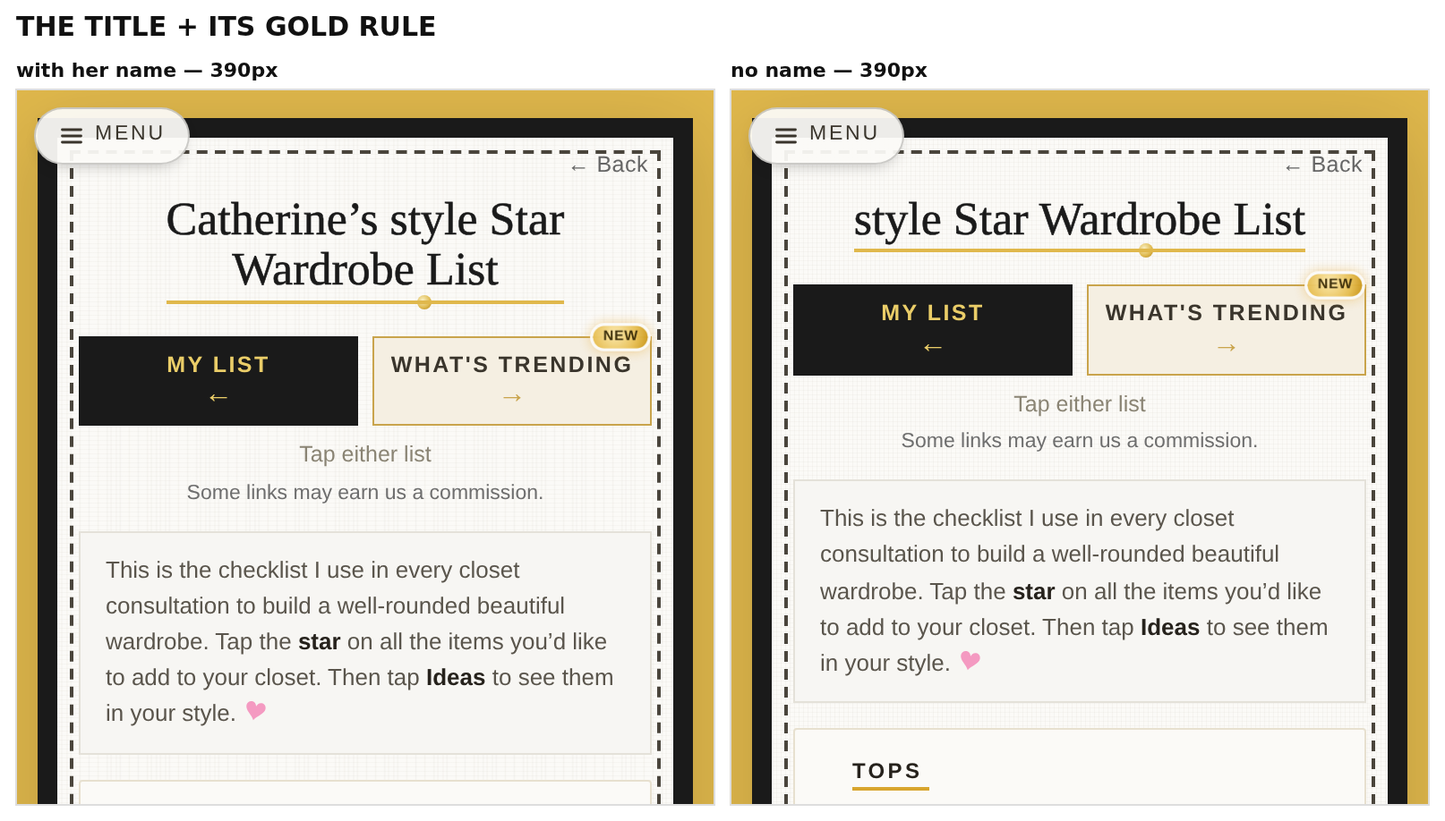
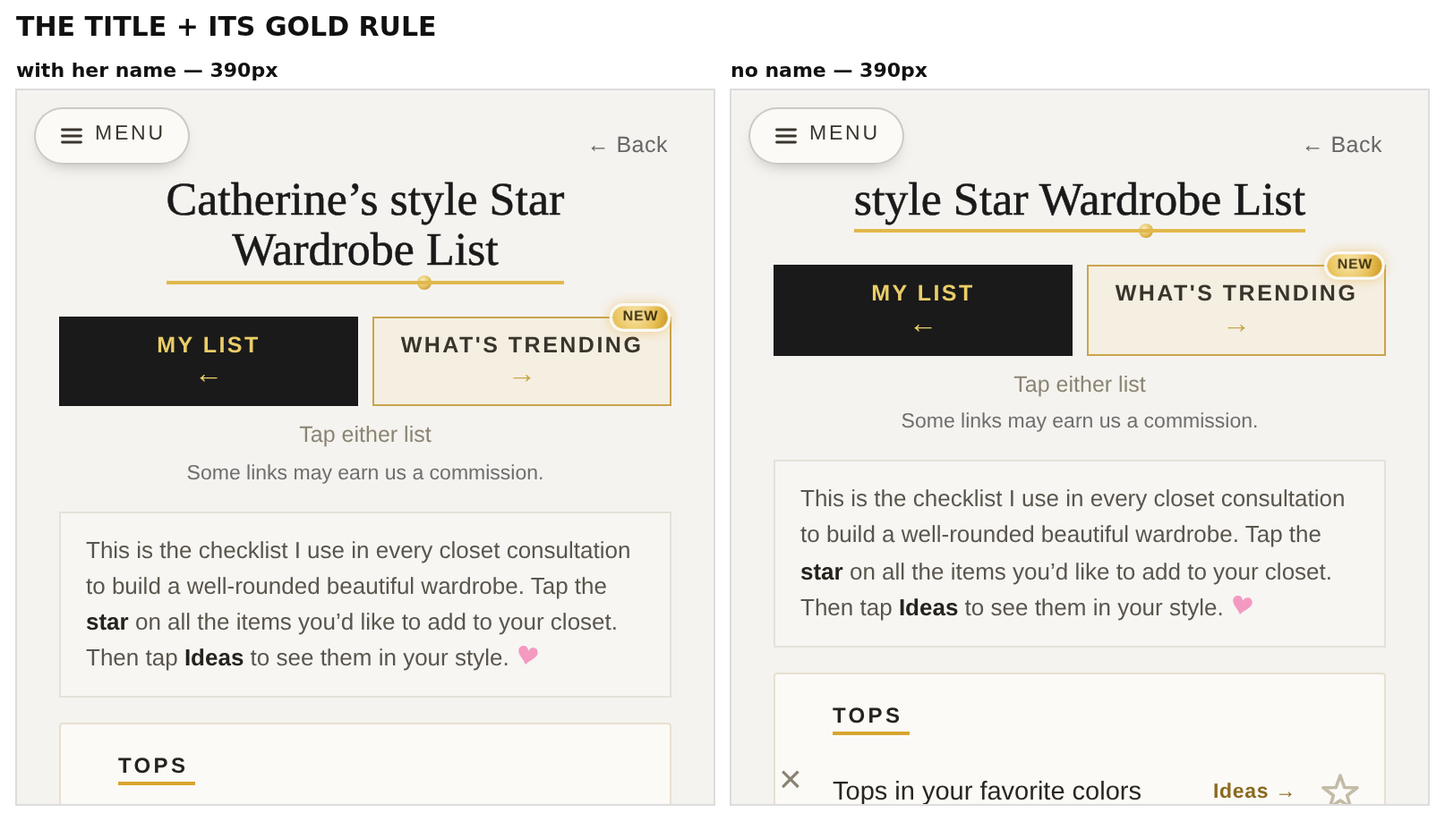
The Edit header clears the MENU chip, and the portrait row says "your"
Her screenshots, 2026-08-11.

1. The Style Star Edit's corner star was not merely close to the MENU chip, it
   OVERLAPPED it. Measured on the star's DRAWN path (its rotated bounding box
   overstates by ~25px and would have hidden this): the tip sat 5.9px above the
   chip's bottom edge and 35px inside it horizontally, on every width from 320
   to 430. .dc-logo's top margin 8px -> 24px moves the star and the title down
   together, because the star is positioned relative to that block. Clearance is
   now +10.1px everywhere. Back does not move: it is an earlier sibling in
   normal flow and an inline-block's margin does not collapse into it, measured
   unchanged at top 28.8.

2. Her second ask on the same screen: tighten the air between CURATED BY
   CATHERINE and "Everything here is selected by me" (16px -> 8px). That also
   pays for half the header's move, so the first product shifts only 8px.

3. "See my Style Portrait" -> "See your Style Portrait". Her catch, and it is
   her own refined naming rule doing the work: OUTSIDE the page the app is
   POINTING AT A PLACE, so it says "your". Every sibling row on that hub already
   did (Your Wishlist, Shop your style, Refine your preferences, Analyze your
   outfit, Ask your stylist, Your Wardrobe List) and this was the last holdout.
   The 2026-07-31 rule had listed this string as her-voice; the 2026-08-10
   refinement supersedes that for anything that names a destination. Changed in
[…]

Changed region(s): [[0.0, 0.0915, 0.9913, 1.0]]

diff --git a/index.html b/index.html
@@ -978,7 +978,16 @@ body.menu-open .menu-panel{display:block}
 #s-dream{background:#fff}
 #s-dream .dc-wrap{padding:0.5rem 0.5rem 2rem}
 /* the page's own "elongated logo" title (mirrors the stylist-chat title treatment) */
-.dc-logo{font:400 30px/1.05 'DM Serif Display',Georgia,serif;color:#1a1a1a;-webkit-text-stroke:.7px #1a1a1a;display:inline-block;position:relative;padding-bottom:11px;margin:8px 0 0;letter-spacing:.01em}
+/* ⚠ THE TOP MARGIN IS CHIP CLEARANCE, NOT TASTE (her screenshot, 2026-08-11).
+   The corner star is positioned relative to THIS block, so this one number moves
+   the star and the title together while leaving Back exactly where it is (Back
+   is an earlier sibling in normal flow, and an inline-block's margin does not
+   collapse into it). At the old 8px the star's DRAWN path overlapped the fixed
+   MENU chip -- its tip sat 5.9px above the chip's bottom edge and 35px inside it
+   horizontally, on every width from 320 to 430. 24px puts 10.1px of clear air
+   between them. Measure with scratchpad/editspace.js before changing it, and
+   measure the star's PAINTED PATH, never its rotated bounding box. */
+.dc-logo{font:400 30px/1.05 'DM Serif Display',Georgia,serif;color:#1a1a1a;-webkit-text-stroke:.7px #1a1a1a;display:inline-block;position:relative;padding-bottom:11px;margin:24px 0 0;letter-spacing:.01em}
 .dc-logo::after{content:"";position:absolute;left:0;right:0;bottom:3px;height:3px;background:#E0B84C}
 .dc-logo::before{content:"";position:absolute;bottom:0.5px;left:67%;width:10px;height:10px;border-radius:50%;background:radial-gradient(circle at 38% 34%,#F8EEC0,#DFB94E 58%,#AF811C);z-index:1}
 /* Style Star Edit: a little jewel star (gold with silver outline) pinned to the top-left corner */
@@ -997,7 +1006,10 @@ body.menu-open .menu-panel{display:block}
    pink heart in the app is already drawn as SVG for exactly this reason. Do
    not put a bare U+2665 back. */
 .dc-tagline .pinkheart{width:14px;height:14px;flex:none}
-#s-dream .dc-subtitle{font-family:'Lora',Georgia,serif;font-size:15.5px;color:#6b6357;line-height:1.65;margin:1rem -0.5rem 0.9rem;font-style:italic;font-weight:600;padding:0}
+/* Her ask 2026-08-11: tighten the air between CURATED BY CATHERINE and this
+   paragraph (16px -> 8px). It also pays for half of the 16px the header just
+   moved down, so the first product only shifts 8px. */
+#s-dream .dc-subtitle{font-family:'Lora',Georgia,serif;font-size:15.5px;color:#6b6357;line-height:1.65;margin:8px -0.5rem 0.9rem;font-style:italic;font-weight:600;padding:0}
 #s-dream .dc-disclosure{font-family:'Lora',Georgia,serif;font-size:11.5px;color:#8a8172;margin:0 0 5px;line-height:1.65}
 .dc-sign{font-family:'Dancing Script',cursive;font-weight:600;font-size:30px;color:#C8A24B;line-height:1.15;margin:1.7rem 0 0}
 #s-dream .btn-outline{border-radius:2px;border-width:1.5px;max-width:260px;margin:1.3rem auto 0}
@@ -2225,7 +2237,7 @@ body.ss-play .hm-entrance{animation:ssOverlayOut .55s ease 1.6s forwards}
           <div class="wb-shadow"><i></i></div><div class="wb-bar"></div><div class="wb-brks"><span class="wb-brk l"></span><span class="wb-brk r"></span></div>
         </div>
         <div class="wb-item" wb-lift onclick="wbPortraitTap()">
-          <div class="wb-row"><span class="wb-chip" style="background:linear-gradient(160deg,#EEF1F4,#CDD3D9 55%,#B4BBC2);box-shadow:0 3px 7px -3px rgba(90,96,104,.55),inset 0 1px 0 rgba(255,255,255,.8)"><svg viewBox="0 0 24 24" fill="none" stroke="#B8891F" stroke-width="1.7" stroke-linecap="round" stroke-linejoin="round"><rect x="2.5" y="2.5" width="19" height="19" rx="1.6"/><rect x="5" y="5" width="14" height="14" rx="1"/><path transform="translate(12 12) scale(0.56) translate(-12 -12)" fill="#B8891F" stroke="none" d="M12 1.6L14.47 8.6L21.89 8.79L15.99 13.3L18.11 20.41L12 16.2L5.89 20.41L8.01 13.3L2.11 8.79L9.53 8.6Z"/></svg></span><span class="wb-lbl"><span class="tt"><b>See my Style Portrait</b><svg class="wb-arr" style="color:#B8891F" viewBox="0 0 24 24" fill="none" stroke="currentColor" stroke-width="2.6" stroke-linecap="round" stroke-linejoin="round"><path d="M4 12h13"/><path d="M12 6.5 18.5 12 12 17.5"/></svg></span><span class="wb-sub">Your signature style, from the quiz</span></span></div>
+          <div class="wb-row"><span class="wb-chip" style="background:linear-gradient(160deg,#EEF1F4,#CDD3D9 55%,#B4BBC2);box-shadow:0 3px 7px -3px rgba(90,96,104,.55),inset 0 1px 0 rgba(255,255,255,.8)"><svg viewBox="0 0 24 24" fill="none" stroke="#B8891F" stroke-width="1.7" stroke-linecap="round" stroke-linejoin="round"><rect x="2.5" y="2.5" width="19" height="19" rx="1.6"/><rect x="5" y="5" width="14" height="14" rx="1"/><path transform="translate(12 12) scale(0.56) translate(-12 -12)" fill="#B8891F" stroke="none" d="M12 1.6L14.47 8.6L21.89 8.79L15.99 13.3L18.11 20.41L12 16.2L5.89 20.41L8.01 13.3L2.11 8.79L9.53 8.6Z"/></svg></span><span class="wb-lbl"><span class="tt"><b>See your Style Portrait</b><svg class="wb-arr" style="color:#B8891F" viewBox="0 0 24 24" fill="none" stroke="currentColor" stroke-width="2.6" stroke-linecap="round" stroke-linejoin="round"><path d="M4 12h13"/><path d="M12 6.5 18.5 12 12 17.5"/></svg></span><span class="wb-sub">Your signature style, from the quiz</span></span></div>
           <div class="wb-shadow"><i></i></div><div class="wb-bar"></div><div class="wb-brks"><span class="wb-brk l"></span><span class="wb-brk r"></span></div>
         </div>
         <div class="wb-item" wb-lift onclick="openPrefs()">
@@ -2919,7 +2931,7 @@ body.ss-play .hm-entrance{animation:ssOverlayOut .55s ease 1.6s forwards}
       <button class="btn-pink" onclick="prefShopNow()" style="max-width:280px"><svg class="hm-cta-seal" viewBox="0 0 24 24"><defs><radialGradient id="prefSeal" cx="42%" cy="36%" r="70%"><stop offset="0" stop-color="#FFFCEF"/><stop offset=".4" stop-color="#F9E5A0"/><stop offset=".75" stop-color="#F0CB5E"/><stop offset="1" stop-color="#E6B845"/></radialGradient></defs><path fill="url(#prefSeal)" stroke="#B7BCC2" stroke-width="1.1" stroke-linejoin="round" d="M12 1.6L14.47 8.6L21.89 8.79L15.99 13.3L18.11 20.41L12 16.2L5.89 20.41L8.01 13.3L2.11 8.79L9.53 8.6Z"/></svg><span>Let's go shopping</span><svg class="lgs-ar" viewBox="0 0 24 24" fill="none" stroke="currentColor" stroke-width="2.6" stroke-linecap="round" stroke-linejoin="round"><path d="M4 12h13"/><path d="M12 6.5 18.5 12 12 17.5"/></svg></button>
       <div class="pref-done-acts">
         <button class="pda" onclick="openChat()"><span class="pda-tile pda-pink-tile"><svg viewBox="0 0 24 24" fill="none" stroke="#fff" stroke-width="1.7" stroke-linecap="round" stroke-linejoin="round"><path d="M4 6.6A2.1 2.1 0 0 1 6.1 4.5h11.8A2.1 2.1 0 0 1 20 6.6v6.6a2.1 2.1 0 0 1-2.1 2.1h-6.4L7.2 19.4v-4.1H6.1A2.1 2.1 0 0 1 4 13.2Z"/></svg></span><span>Ask your <span class="sty-u">stylist</span></span></button>
-        <button class="pda" onclick="loadSaved()"><span class="pda-tile pda-dark-tile"><svg viewBox="0 0 24 24" fill="none" stroke="#E3B53E" stroke-width="1.7" stroke-linecap="round" stroke-linejoin="round"><rect x="2.5" y="2.5" width="19" height="19" rx="1.6"/><rect x="5" y="5" width="14" height="14" rx="1"/><path transform="translate(12 12) scale(0.56) translate(-12 -12)" fill="#E3B53E" stroke="none" d="M12 1.6L14.47 8.6L21.89 8.79L15.99 13.3L18.11 20.41L12 16.2L5.89 20.41L8.01 13.3L2.11 8.79L9.53 8.6Z"/></svg></span><span>See my Style Portrait</span></button>
+        <button class="pda" onclick="loadSaved()"><span class="pda-tile pda-dark-tile"><svg viewBox="0 0 24 24" fill="none" stroke="#E3B53E" stroke-width="1.7" stroke-linecap="round" stroke-linejoin="round"><rect x="2.5" y="2.5" width="19" height="19" rx="1.6"/><rect x="5" y="5" width="14" height="14" rx="1"/><path transform="translate(12 12) scale(0.56) translate(-12 -12)" fill="#E3B53E" stroke="none" d="M12 1.6L14.47 8.6L21.89 8.79L15.99 13.3L18.11 20.41L12 16.2L5.89 20.41L8.01 13.3L2.11 8.79L9.53 8.6Z"/></svg></span><span>See your Style Portrait</span></button>
       </div>
       <div class="pref-anytime">Your preferences are never locked in. <span onclick="openPrefs()">Add or refine them anytime &rarr;</span></div>
       <button class="retake" onclick="prefNotNow()" style="margin-top:8px">Not right now</button>
@@ -4320,7 +4332,7 @@ window.addEventListener('resize',function(){try{_syncStuds()}catch(e){}});
 function _photoSaveArea(on){
   // "Retake the Quiz" only makes sense if she's actually taken it.
   var rt=document.querySelector('#s-photo-res .retake-wrap');if(rt)rt.style.display=quizTaken?'':'none';
-  // "See my Style Portrait" only exists for quiz-takers (needs a saved portrait).
+  // "See your Style Portrait" only exists for quiz-takers (needs a saved portrait).
   var pp=document.getElementById('photoPortraitHub');if(pp)pp.style.display=quizTaken?'':'none';
   if(quizTaken)requestAnimationFrame(_syncStuds); // pearls re-count once the panel has its real size
   var ptt=document.getElementById('portraitTitle');if(ptt){var _pfn=(userName&&userName!=='You')?String(userName).trim().split(/\s+/)[0]:'';ptt.textContent=_pfn?_pfn+'’s Style':'Your Style';}

diff --git a/scratchpad/wdrstar.js b/scratchpad/wdrstar.js
@@ -1,0 +1,64 @@
+// Her note 2026-08-11 on the now-calm Wardrobe List: "it might need a star
+// somewhere on the top." Four directions rendered on the real page.
+// ⚠ Every star here lives OUTSIDE .wdr-title. The title is an inline-block
+// whose gold rule is sized as a % of the block, so anything added INSIDE it
+// stretches the rule past the words (the 2026-08-10 titlerule lesson).
+const chromium = (await import('/opt/node22/lib/node_modules/playwright/index.js')).default.chromium;
+import http from 'http';
+import fs from 'fs';
+import path from 'path';
+const ROOT = path.resolve(import.meta.dirname, '..');
+const server = http.createServer((req, res) => {
+  const f = path.join(ROOT, req.url === '/' ? 'index.html' : decodeURIComponent(req.url.split('?')[0].slice(1)));
+  if (!f.startsWith(ROOT) || !fs.existsSync(f) || fs.statSync(f).isDirectory()) { res.writeHead(404); return res.end(); }
+  res.writeHead(200); fs.createReadStream(f).pipe(res);
+});
+await new Promise(r => server.listen(0, r));
+const base = 'http://127.0.0.1:' + server.address().port;
+const browser = await chromium.launch({ executablePath: '/opt/pw-browsers/chromium' });
+
+const STAR = (size, rot) => `<svg class="__ws" style="width:${size}px;height:${size}px;transform:rotate(${rot}deg)" viewBox="0 0 24 24"><defs><radialGradient id="wdrStarG${size}${Math.abs(rot)}" cx="42%" cy="34%" r="72%"><stop offset="0" stop-color="#FDF0B8"/><stop offset=".38" stop-color="#F4D877"/><stop offset=".72" stop-color="#E8B944"/><stop offset="1" stop-color="#CE9A26"/></radialGradient></defs><path fill="url(#wdrStarG${size}${Math.abs(rot)})" stroke="#9AA0A6" stroke-width="1.1" stroke-linejoin="round" d="M12 1.6L14.47 8.6L21.89 8.79L15.99 13.3L18.11 20.41L12 16.2L5.89 20.41L8.01 13.3L2.11 8.79L9.53 8.6Z"/></svg>`;
+
+const OPTS = [
+  { id: 'current', label: 'CURRENT  no star', build: null },
+  { id: 'a', label: 'A  one star above the title, 34px', build: { where: 'above', html: STAR(34, 0), css: '#s-wardrobe .wdr-head{position:relative}#s-wardrobe .__wsw{display:block;margin:0 0 6px;line-height:0}' } },
+  { id: 'b', label: 'B  bigger star above, 46px  (a crown)', build: { where: 'above', html: STAR(46, 0), css: '#s-wardrobe .wdr-head{position:relative}#s-wardrobe .__wsw{display:block;margin:0 0 7px;line-height:0}' } },
+  { id: 'c', label: 'C  small star tucked left of the title, tilted', build: { where: 'tuck', html: STAR(32, -18), css: '#s-wardrobe .wdr-head{position:relative}#s-wardrobe .__wsw{position:absolute;left:50%;margin-left:-152px;top:-2px;line-height:0;filter:drop-shadow(0 2px 3px rgba(120,90,20,.26))}' } },
+  { id: 'd', label: 'D  two stars flanking the title, 22px', build: { where: 'flank', html: STAR(22, 0), css: '#s-wardrobe .wdr-head{position:relative}#s-wardrobe .__wsw{position:absolute;top:6px;line-height:0}#s-wardrobe .__wsw.l{left:50%;margin-left:-150px}#s-wardrobe .__wsw.r{left:50%;margin-left:128px}' } },
+];
+
+for (const o of OPTS) {
+  const page = await browser.newPage({ viewport: { width: 390, height: 700 }, deviceScaleFactor: 2 });
+  await page.goto(base + '/', { waitUntil: 'load' });
+  await page.evaluate(() => localStorage.setItem('ss_data', JSON.stringify({ userName: 'Cath', answers: Array(12).fill(6), topArchNames: ['Timeless Classic'], portrait: 'x', motto: 'y' })));
+  await page.reload({ waitUntil: 'load' });
+  await page.waitForTimeout(2600);
+  const m = await page.evaluate(o => {
+    openWardrobe('list');
+    const head = document.querySelector('#s-wardrobe .wdr-head');
+    const title = document.querySelector('#s-wardrobe .wdr-title');
+    if (o.build) {
+      const s = document.createElement('style'); s.textContent = o.build.css; document.head.appendChild(s);
+      const mk = cls => { const d = document.createElement('span'); d.className = '__wsw ' + (cls || ''); d.innerHTML = o.build.html; return d; };
+      if (o.build.where === 'above') head.insertBefore(mk(), title);
+      else if (o.build.where === 'tuck') head.appendChild(mk());
+      else { head.appendChild(mk('l')); head.appendChild(mk('r')); }
+    }
+    const s2 = document.createElement('style');
+    s2.textContent = `#__lbl{position:fixed;left:0;right:0;bottom:0;z-index:99999;background:#111;color:#fff;font:600 13px/1.5 -apple-system,sans-serif;text-align:center;padding:7px 0;letter-spacing:.04em}`;
+    document.head.appendChild(s2);
+    const d = document.createElement('div'); d.id = '__lbl'; d.textContent = o.label; document.body.appendChild(d);
+    // does any star collide with the fixed MENU chip?
+    const chip = (document.querySelector('#menuChip') || document.querySelector('.menu-chip')).getBoundingClientRect();
+    const stars = [...document.querySelectorAll('#s-wardrobe .__ws')].map(e => { const r = e.getBoundingClientRect(); return { t: +r.top.toFixed(1), l: +r.left.toFixed(1), r: +r.right.toFixed(1), b: +r.bottom.toFixed(1) }; });
+    const hits = stars.filter(r => !(r.l > chip.right || r.r < chip.left || r.t > chip.bottom || r.b < chip.top));
+    const tr = title.getBoundingClientRect();
+    const rule = getComputedStyle(title, '::after');
+    return { stars, chipHits: hits.length, titleW: +tr.width.toFixed(1), ruleW: rule.width, docW: document.documentElement.scrollWidth };
+  }, o);
+  console.log(`${o.id.padEnd(8)} stars=${JSON.stringify(m.stars)} chipCollisions=${m.chipHits} titleW=${m.titleW} rule=${m.ruleW} sidewaysScroll=${m.docW > 390}`);
+  await page.waitForTimeout(300);
+  await page.screenshot({ path: path.join(ROOT, 'scratchpad', `wdrstar-${o.id}.png`), clip: { x: 0, y: 0, width: 390, height: 470 } });
+  await page.close();
+}
+await browser.close(); server.close();

diff --git a/scratchpad/editspace.js b/scratchpad/editspace.js
@@ -1,0 +1,78 @@
+// Her 2026-08-11 screenshot of the Style Star Edit: the MENU chip is too close
+// to the corner star; Back stays put; the star + header come down; the gap
+// between CURATED BY CATHERINE and "Everything here..." tightens.
+// This measures the real geometry before anything is tuned.
+const chromium = (await import('/opt/node22/lib/node_modules/playwright/index.js')).default.chromium;
+import http from 'http';
+import fs from 'fs';
+import path from 'path';
+const ROOT = path.resolve(import.meta.dirname, '..');
+const server = http.createServer((req, res) => {
+  const f = path.join(ROOT, req.url === '/' ? 'index.html' : decodeURIComponent(req.url.split('?')[0].slice(1)));
+  if (!f.startsWith(ROOT) || !fs.existsSync(f) || fs.statSync(f).isDirectory()) { res.writeHead(404); return res.end(); }
+  res.writeHead(200); fs.createReadStream(f).pipe(res);
+});
+await new Promise(r => server.listen(0, r));
+const base = 'http://127.0.0.1:' + server.address().port;
+const browser = await chromium.launch({ executablePath: '/opt/pw-browsers/chromium' });
+
+for (const w of [430, 390, 375, 360, 320]) {
+  const page = await browser.newPage({ viewport: { width: w, height: 900 }, deviceScaleFactor: 2 });
+  const errs = []; page.on('pageerror', e => errs.push(e.message));
+  await page.goto(base + '/', { waitUntil: 'load' });
+  await page.evaluate(() => localStorage.setItem('ss_data', JSON.stringify({ userName: 'Cath', answers: Array(12).fill(6), topArchNames: ['Timeless Classic'], portrait: 'x', motto: 'y' })));
+  await page.reload({ waitUntil: 'load' });
+  await page.waitForTimeout(2600);
+
+  const m = await page.evaluate(() => {
+    showDream();
+    const R = s => { const e = document.querySelector(s); if (!e) return null; const r = e.getBoundingClientRect(); return { t: +r.top.toFixed(1), l: +r.left.toFixed(1), r: +r.right.toFixed(1), b: +r.bottom.toFixed(1), w: +r.width.toFixed(1), h: +r.height.toFixed(1) }; };
+    // the star is a rotated SVG: its bounding box overstates the DRAWN shape,
+    // so sample the real painted path the way mallverify.js did.
+    const svg = document.querySelector('#s-dream .dc-corner-star');
+    let drawn = null;
+    if (svg) {
+      const p = svg.querySelector('path');
+      const len = p.getTotalLength();
+      const box = svg.getBoundingClientRect();
+      const vb = svg.viewBox.baseVal;
+      let minX = 1e9, minY = 1e9, maxX = -1e9, maxY = -1e9;
+      const ctm = p.getScreenCTM();
+      for (let i = 0; i <= 400; i++) {
+        const pt = p.getPointAtLength(len * i / 400);
+        const sp = new DOMPoint(pt.x, pt.y).matrixTransform(ctm);
+        if (sp.x < minX) minX = sp.x; if (sp.x > maxX) maxX = sp.x;
+        if (sp.y < minY) minY = sp.y; if (sp.y > maxY) maxY = sp.y;
+      }
+      drawn = { t: +minY.toFixed(1), l: +minX.toFixed(1), r: +maxX.toFixed(1), b: +maxY.toFixed(1), boxT: +box.top.toFixed(1), boxL: +box.left.toFixed(1) };
+    }
+    const chip = R('#menuChip') || R('.menu-chip');
+    // gap between the tagline and the subtitle paragraph
+    const tag = document.querySelector('#s-dream .dc-tagline');
+    const sub = document.querySelector('#s-dream .dc-subtitle');
+    const gap = (tag && sub) ? +(sub.getBoundingClientRect().top - tag.getBoundingClientRect().bottom).toFixed(1) : null;
+    return { chip, drawn, star: R('#s-dream .dc-corner-star'), logo: R('#s-dream .dc-logo'), back: R('#s-dream .top-back-wrap'), tag: R('#s-dream .dc-tagline'), sub: R('#s-dream .dc-subtitle'), gap };
+  });
+
+  console.log(`\n=== ${w}px ===`);
+  console.log('  MENU chip   ', JSON.stringify(m.chip));
+  console.log('  star (box)  ', JSON.stringify(m.star));
+  console.log('  star (drawn)', JSON.stringify(m.drawn));
+  console.log('  logo        ', JSON.stringify(m.logo));
+  console.log('  Back        ', JSON.stringify(m.back));
+  console.log('  tagline     ', JSON.stringify(m.tag));
+  console.log('  subtitle    ', JSON.stringify(m.sub));
+  if (m.chip && m.drawn) {
+    const dx = m.drawn.l - m.chip.r;          // horizontal gap chip-right to star-left
+    const dy = m.drawn.t - m.chip.b;          // vertical gap chip-bottom to star-top
+    const overlapX = !(m.drawn.l > m.chip.r || m.drawn.r < m.chip.l);
+    const overlapY = !(m.drawn.t > m.chip.b || m.drawn.b < m.chip.t);
+    console.log(`  >> drawn star vs chip: dx=${dx.toFixed(1)} dy=${dy.toFixed(1)} overlapping=${overlapX && overlapY}`);
+    // nearest painted-point distance
+    console.log(`  >> chip box: ${m.chip.l},${m.chip.t} -> ${m.chip.r},${m.chip.b}`);
+  }
+  console.log(`  >> tagline -> subtitle gap: ${m.gap}px`);
+  if (errs.length) console.log('  JS ERRORS', errs);
+  await page.close();
+}
+await browser.close(); server.close();

diff --git a/scratchpad/editfix.js b/scratchpad/editfix.js
@@ -1,0 +1,56 @@
+// Her 2026-08-11 asks on the Style Star Edit, rendered before/after:
+//   - Back stays exactly where it is
+//   - the star + header come DOWN (they overlap the MENU chip today)
+//   - the gap between CURATED BY CATHERINE and "Everything here..." tightens
+const chromium = (await import('/opt/node22/lib/node_modules/playwright/index.js')).default.chromium;
+import http from 'http';
+import fs from 'fs';
+import path from 'path';
+const ROOT = path.resolve(import.meta.dirname, '..');
+const server = http.createServer((req, res) => {
+  const f = path.join(ROOT, req.url === '/' ? 'index.html' : decodeURIComponent(req.url.split('?')[0].slice(1)));
+  if (!f.startsWith(ROOT) || !fs.existsSync(f) || fs.statSync(f).isDirectory()) { res.writeHead(404); return res.end(); }
+  res.writeHead(200); fs.createReadStream(f).pipe(res);
+});
+await new Promise(r => server.listen(0, r));
+const base = 'http://127.0.0.1:' + server.address().port;
+const browser = await chromium.launch({ executablePath: '/opt/pw-browsers/chromium' });
+
+// logoTop = .dc-logo margin-top (was 8px), subTop = .dc-subtitle margin-top (was 16px)
+const OPTS = [
+  { id: 'current', label: 'CURRENT', logoTop: 8, subTop: 16 },
+  { id: 'fixed', label: 'PROPOSED  star+header down 16px, tagline gap 16 -> 8px', logoTop: 24, subTop: 8 },
+];
+
+for (const o of OPTS) {
+  const page = await browser.newPage({ viewport: { width: 390, height: 720 }, deviceScaleFactor: 2 });
+  await page.goto(base + '/', { waitUntil: 'load' });
+  await page.evaluate(() => localStorage.setItem('ss_data', JSON.stringify({ userName: 'Cath', answers: Array(12).fill(6), topArchNames: ['Timeless Classic'], portrait: 'x', motto: 'y' })));
+  await page.reload({ waitUntil: 'load' });
+  await page.waitForTimeout(2600);
+  await page.evaluate(o => {
+    showDream();
+    const s = document.createElement('style');
+    s.textContent = `#s-dream .dc-logo{margin-top:${o.logoTop}px}#s-dream .dc-subtitle{margin-top:${o.subTop}px}`;
+    document.head.appendChild(s);
+  }, o);
+  await page.waitForTimeout(400);
+  const m = await page.evaluate(() => {
+    const svg = document.querySelector('#s-dream .dc-corner-star');
+    const p = svg.querySelector('path'), len = p.getTotalLength(), ctm = p.getScreenCTM();
+    let minY = 1e9, minX = 1e9, maxX = -1e9;
+    for (let i = 0; i <= 400; i++) { const pt = p.getPointAtLength(len * i / 400); const sp = new DOMPoint(pt.x, pt.y).matrixTransform(ctm); if (sp.y < minY) minY = sp.y; if (sp.x < minX) minX = sp.x; if (sp.x > maxX) maxX = sp.x; }
+    const chip = (document.querySelector('#menuChip') || document.querySelector('.menu-chip')).getBoundingClientRect();
+    const tag = document.querySelector('#s-dream .dc-tagline').getBoundingClientRect();
+    const sub = document.querySelector('#s-dream .dc-subtitle').getBoundingClientRect();
+    const back = document.querySelector('#s-dream .top-back-wrap').getBoundingClientRect();
+    const first = document.querySelector('#s-dream .dc-item').getBoundingClientRect();
+    return { starTop: +minY.toFixed(1), starL: +minX.toFixed(1), starR: +maxX.toFixed(1), chipB: +chip.bottom.toFixed(1), chipR: +chip.right.toFixed(1), backTop: +back.top.toFixed(1), gap: +(sub.top - tag.bottom).toFixed(1), firstItem: +first.top.toFixed(1) };
+  });
+  const clear = +(m.starTop - m.chipB).toFixed(1);
+  console.log(`${o.id.padEnd(9)} starTop=${m.starTop} chipBottom=${m.chipB} clearance=${clear > 0 ? '+' + clear : clear}px  Back.top=${m.backTop}  tagline->sub gap=${m.gap}px  firstItem.top=${m.firstItem}`);
+  await page.screenshot({ path: path.join(ROOT, 'scratchpad', `editfix-${o.id}.png`), clip: { x: 0, y: 0, width: 390, height: 430 } });
+  await page.close();
+}
+await browser.close(); server.close();
+console.log('\nwrote scratchpad/editfix-current.png + editfix-fixed.png');

diff --git a/scratchpad/editteal.js b/scratchpad/editteal.js
@@ -1,0 +1,48 @@
+// Her question 2026-08-11: "is the turquoise coming across too bright on the
+// back bleed?" Four directions rendered on the real Edit page, phone width.
+// The LETTERING stays #0FA6B6 in every option -- only the full-bleed backdrop
+// changes, so page and backdrop still speak one colour, just quieter.
+const chromium = (await import('/opt/node22/lib/node_modules/playwright/index.js')).default.chromium;
+import http from 'http';
+import fs from 'fs';
+import path from 'path';
+const ROOT = path.resolve(import.meta.dirname, '..');
+const server = http.createServer((req, res) => {
+  const f = path.join(ROOT, req.url === '/' ? 'index.html' : decodeURIComponent(req.url.split('?')[0].slice(1)));
+  if (!f.startsWith(ROOT) || !fs.existsSync(f) || fs.statSync(f).isDirectory()) { res.writeHead(404); return res.end(); }
+  res.writeHead(200); fs.createReadStream(f).pipe(res);
+});
+await new Promise(r => server.listen(0, r));
+const base = 'http://127.0.0.1:' + server.address().port;
+const browser = await chromium.launch({ executablePath: '/opt/pw-browsers/chromium' });
+
+const OPTS = [
+  { id: 'current', c: '#0FA6B6', label: 'CURRENT  #0FA6B6' },
+  { id: 'a', c: '#0E7F8C', label: 'A  deeper teal  #0E7F8C' },
+  { id: 'b', c: '#0A5D67', label: 'B  jewel teal  #0A5D67' },
+  { id: 'c', c: '#A8D9DE', label: 'C  sea glass  #A8D9DE' },
+];
+
+for (const o of OPTS) {
+  const page = await browser.newPage({ viewport: { width: 390, height: 800 }, deviceScaleFactor: 2 });
+  await page.goto(base + '/', { waitUntil: 'load' });
+  await page.evaluate(() => localStorage.setItem('ss_data', JSON.stringify({ userName: 'Cath', answers: Array(12).fill(6), topArchNames: ['Timeless Classic'], portrait: 'x', motto: 'y' })));
+  await page.reload({ waitUntil: 'load' });
+  await page.waitForTimeout(2600);
+  await page.evaluate(o => {
+    showDream();
+    const s = document.createElement('style');
+    // the bleed only; the CURATED BY CATHERINE lettering is untouched
+    s.textContent = `html.edit-velvet,html.edit-velvet body{background:${o.c} !important}
+      #s-dream .dc-logo{margin-top:24px}#s-dream .dc-subtitle{margin-top:8px}
+      #__lbl{position:fixed;left:0;right:0;bottom:0;z-index:99999;background:#111;color:#fff;
+        font:600 13px/1.5 -apple-system,sans-serif;text-align:center;padding:7px 0;letter-spacing:.04em}`;
+    document.head.appendChild(s);
+    const d = document.createElement('div'); d.id = '__lbl'; d.textContent = o.label; document.body.appendChild(d);
+  }, o);
+  await page.waitForTimeout(400);
+  await page.screenshot({ path: path.join(ROOT, 'scratchpad', `editteal-${o.id}.png`), clip: { x: 0, y: 0, width: 390, height: 800 } });
+  await page.close();
+  console.log('rendered ' + o.id + '  ' + o.c);
+}
+await browser.close(); server.close();
